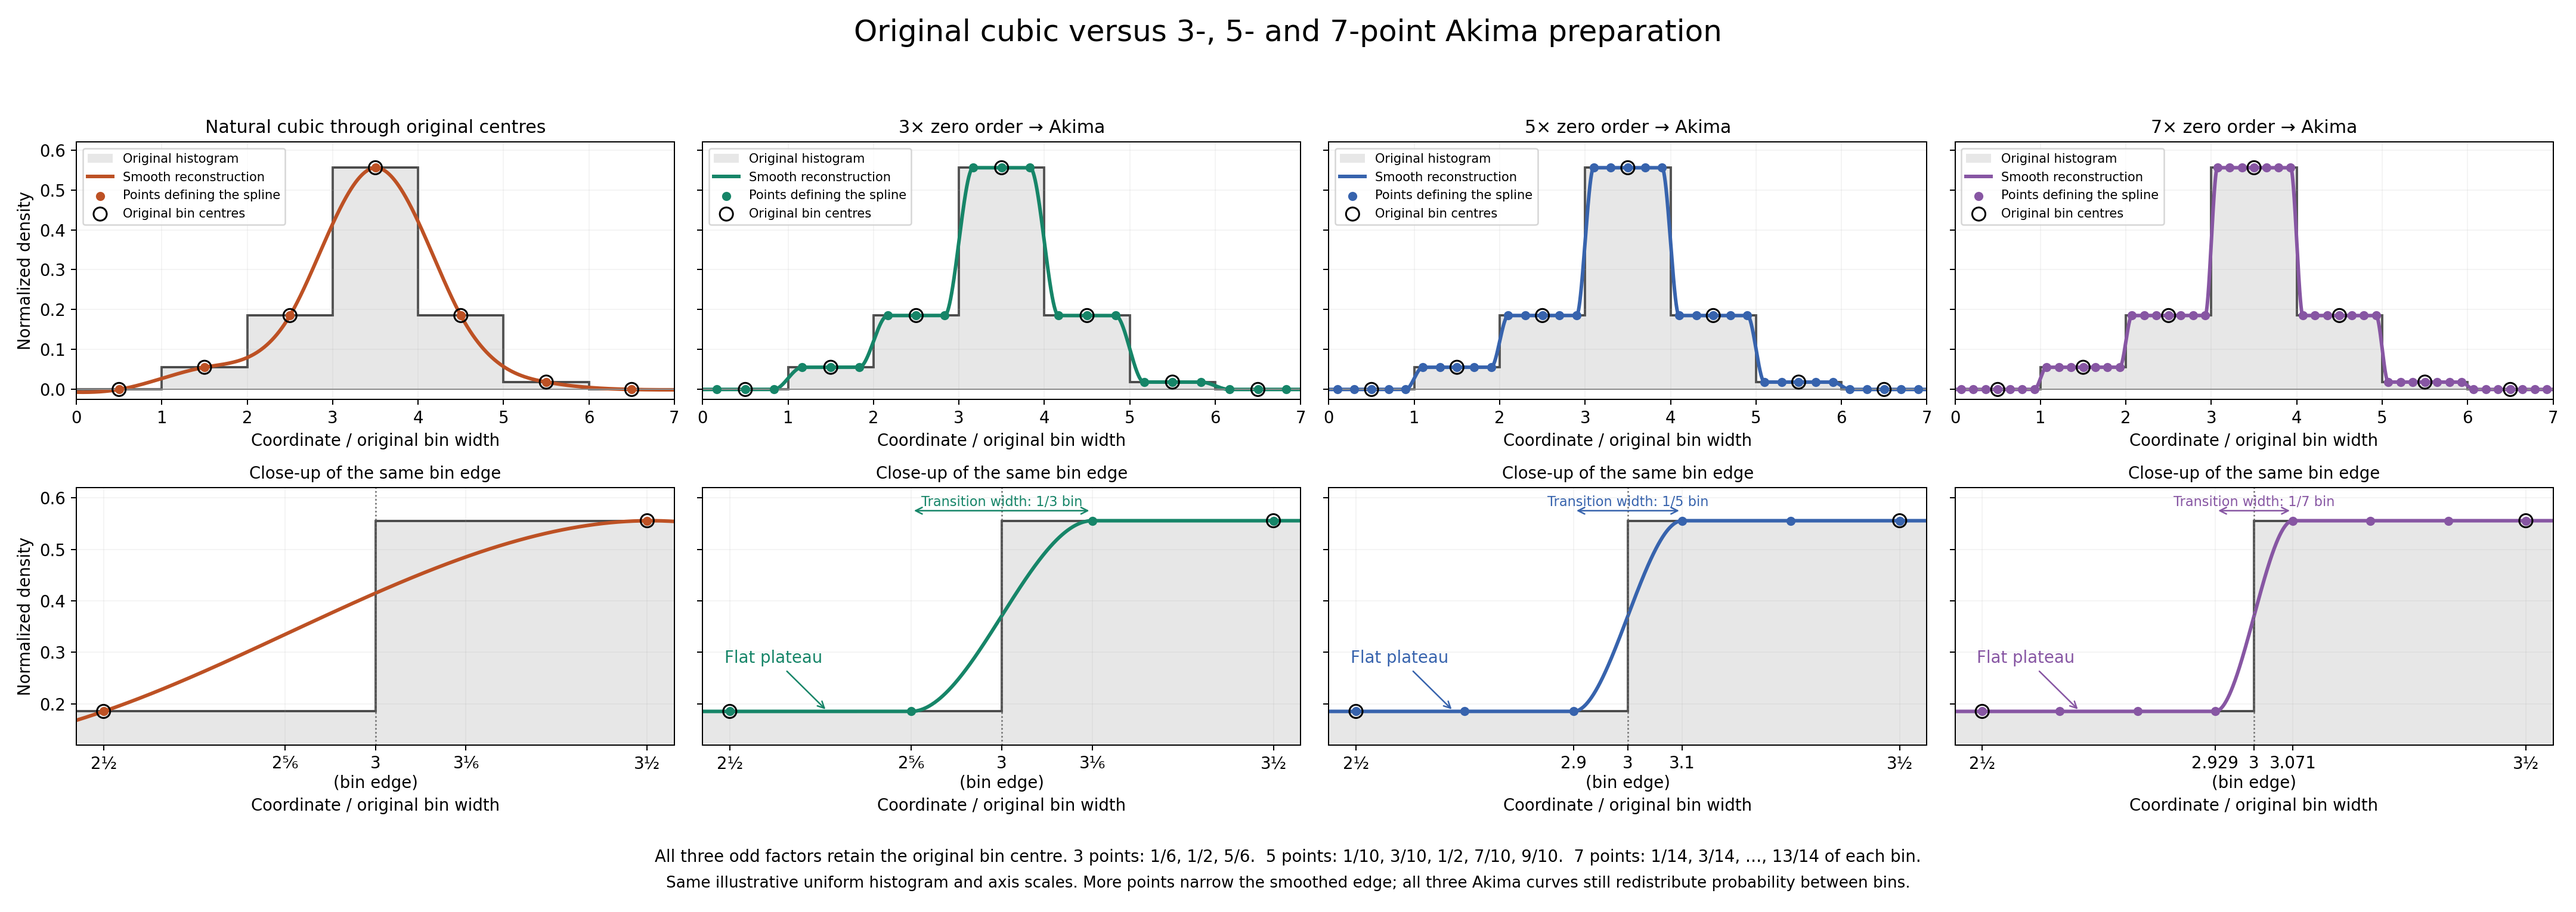
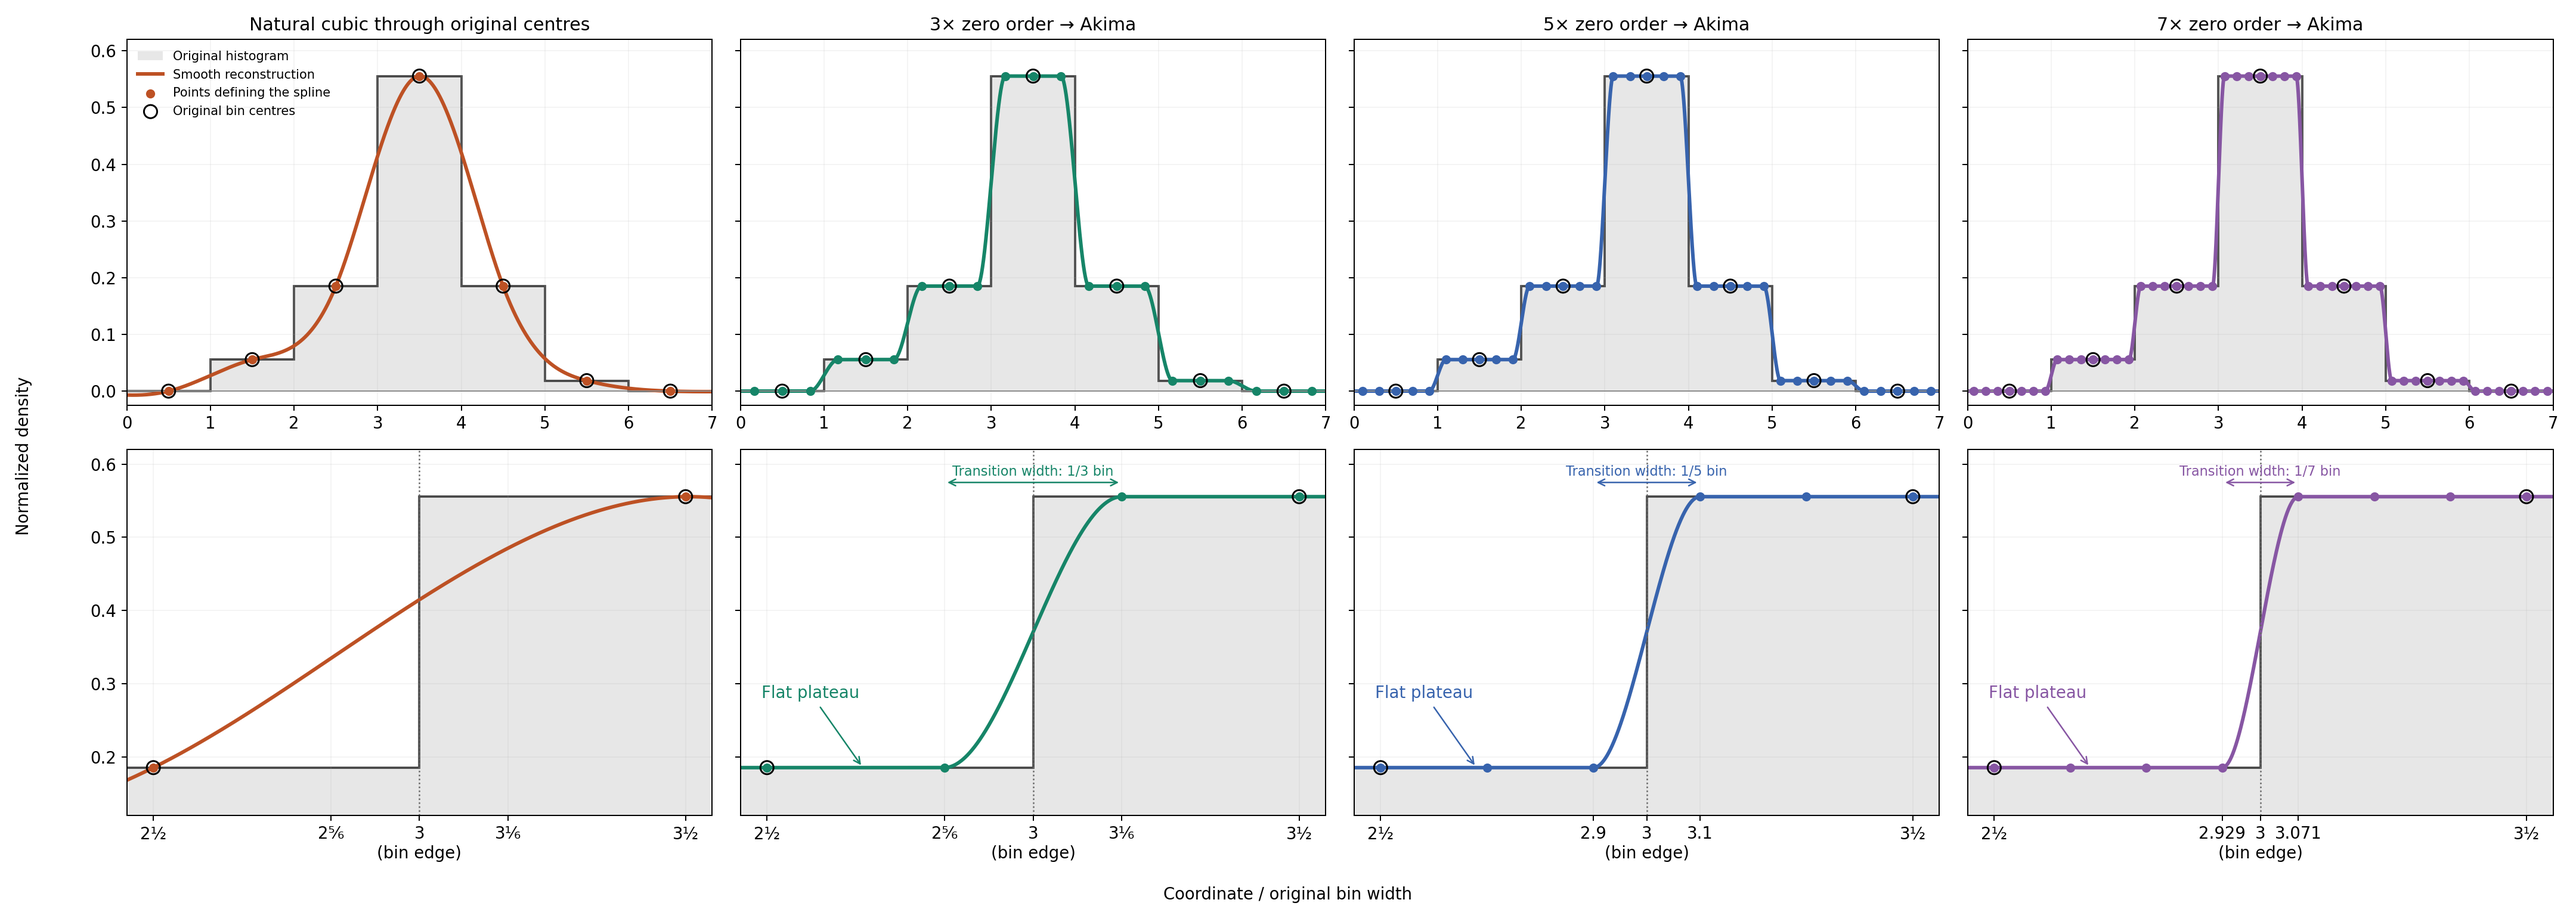
Clarify histogram study equations and simplify figures

diff --git a/dev_scripts/plot_nz_akima_preparation.py b/dev_scripts/plot_nz_akima_preparation.py
@@ -182,20 +182,17 @@ def main():
                        label='Original bin centres')
             ax.axhline(0., color='0.55', linewidth=.8)
             ax.grid(alpha=.13)
-            ax.set_xlabel('Coordinate / original bin width')
-            if column == 0:
-                ax.set_ylabel('Normalized density')
         axes[0, column].set_title(titles[curve_index])
         axes[0, column].set_xlim(0., 7.)
         axes[0, column].set_ylim(-.025, .62)
-        axes[0, column].legend(loc='upper left', fontsize=8.4)
+        if column == 0:
+            axes[0, column].legend(loc='upper left', fontsize=8.4, frameon=False)
         # This illustrative edge at coordinate 3 is chosen in advance, unlike
         # the automatic survey close-up. The window includes both neighbouring
         # cell centres (2.5 and 3.5) with a small margin beyond each centre.
         axes[1, column].set_xlim(2.45, 3.55)
         axes[1, column].set_ylim(.12, .62)
         axes[1, column].axvline(3., color='0.4', linestyle=':', linewidth=1)
-        axes[1, column].set_title('Close-up of the same bin edge', fontsize=11)
         if column == 3:
             positions = [2.5, 41/14, 3., 43/14, 3.5]
             labels = ['2½', '2.929', '3\n(bin edge)', '3.071', '3½']
@@ -221,20 +218,9 @@ def main():
             arrowprops={'arrowstyle': '<->', 'color': colour})
         ax.text(3., .584, f'Transition width: 1/{factor} bin',
                 ha='center', color=colour, fontsize=9)
-    fig.suptitle('Original cubic versus 3-, 5- and 7-point Akima preparation',
-                 fontsize=20, y=.98)
-    fig.text(.5, .055,
-             'All three odd factors retain the original bin centre. '
-             '3 points: 1/6, 1/2, 5/6.  '
-             '5 points: 1/10, 3/10, 1/2, 7/10, 9/10.  '
-             '7 points: 1/14, 3/14, …, 13/14 of each bin.',
-             ha='center', fontsize=11)
-    fig.text(.5, .027,
-             'Same illustrative uniform histogram and axis scales. '
-             'More points narrow the smoothed edge; '
-             'all three Akima curves still redistribute probability between bins.',
-             ha='center', fontsize=10.5)
-    fig.tight_layout(rect=(0, .09, 1, .94))
+    fig.supxlabel('Coordinate / original bin width', fontsize=11)
+    fig.supylabel('Normalized density', fontsize=11, x=.006)
+    fig.tight_layout(rect=(.015, 0, 1, 1))
     fig.savefig(output / 'histogram_original_cubic_vs_three_five_seven_akima.png', dpi=180)
     fig.savefig(output / 'histogram_original_cubic_vs_three_five_seven_akima.pdf')
     plt.close(fig)

diff --git a/cosmolike/README.md b/cosmolike/README.md
@@ -162,10 +162,28 @@ covariance kernels, whose integration settings need their own checks.
 and `integration_accuracy: 7` (8,192 nodes per Limber panel). Source/lens
 mean-redshift quadrature also refines with the level and is capped at 8,192.
 Each row keeps the stored NLA fiducial, histogram, mask and covariance fixed.
-Δχ² = (d_b − d_a)ᵀ C⁻¹ (d_b − d_a) measures separation of predictions, not
-a change in goodness of fit. Squared distances are not additive.
+The distance between two predicted data vectors is
+
+```math
+\Delta\chi^2 = (d_b-d_a)^{\mathsf T} C^{-1} (d_b-d_a).
+```
+
+Here $`C`$ is the supplied survey covariance. This measures the change in
+predictions; it is not the change in goodness of fit to observed data.
 
 ![Original cubic and three Akima preparation choices](figures/histogram_original_cubic_vs_three_five_seven_akima.png)
+
+The illustration uses one uniform histogram and matching axes across columns.
+Preparation points lie at these fractions of each bin width, from its left edge:
+
+| Preparation factor | Point positions within each bin |
+|---|---|
+| 3 | 1/6, 1/2, 5/6 |
+| 5 | 1/10, 3/10, 1/2, 7/10, 9/10 |
+| 7 | 1/14, 3/14, 5/14, 1/2, 9/14, 11/14, 13/14 |
+
+All three factors retain the original bin centre. More points narrow the
+smoothed edge; all three Akima curves still redistribute probability between bins.
 
 | Project | Original → 3 | 3 → 5 | 3 → 7 | 5 → 7 |
 |---|---:|---:|---:|---:|
